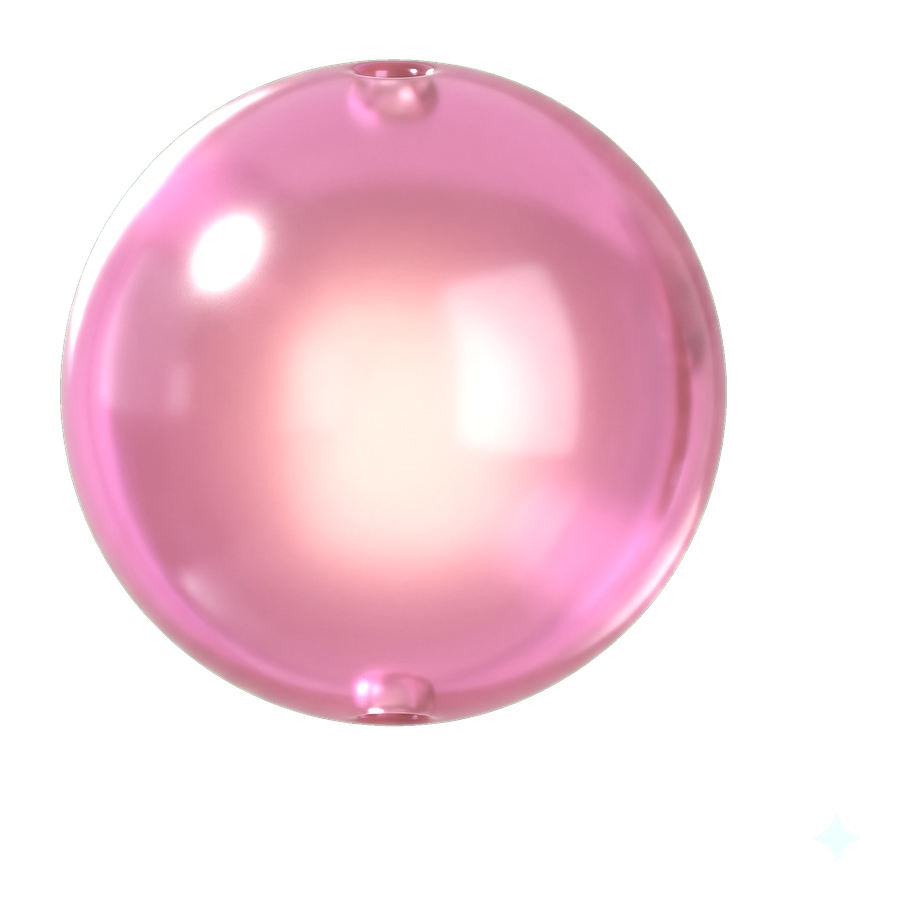
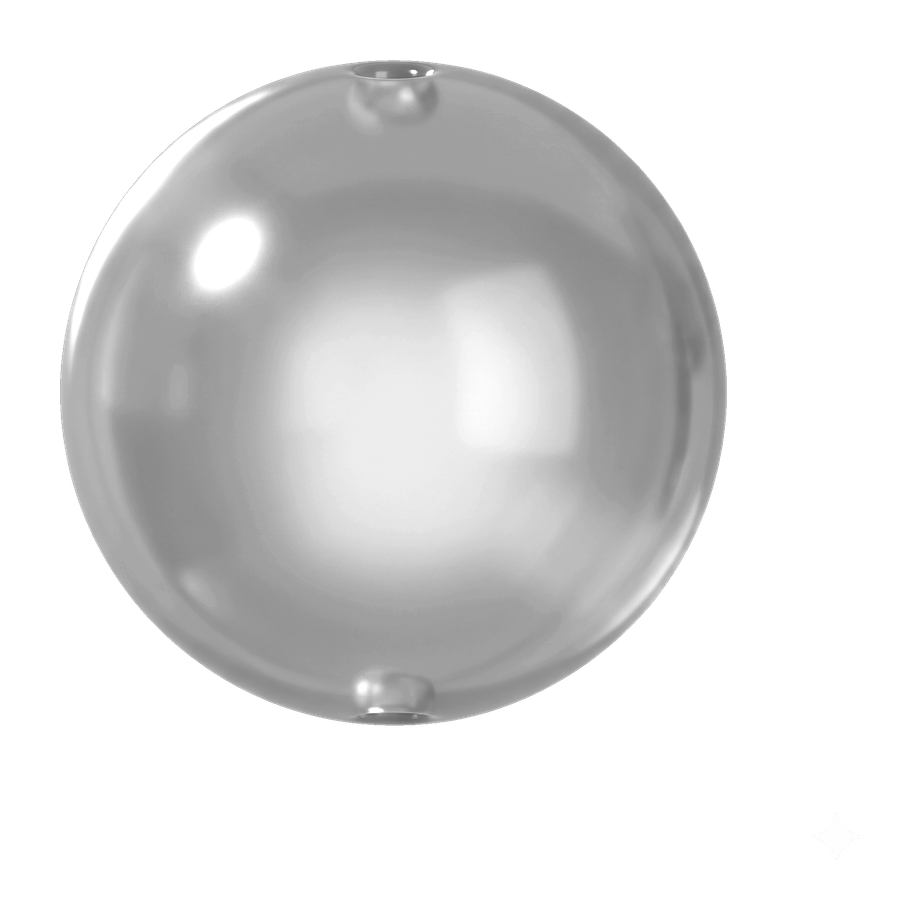
네온 염주 — 알 지름을 발바닥과 같게(651→800), 불 켜진 알은 금으로

diff --git a/src/app/moktak/page.tsx b/src/app/moktak/page.tsx
@@ -132,7 +132,7 @@ const PRACTICE_TABS: readonly PracticeTab[] = ["moktak", "yeomju", "bowl", "keyc
 /** 그림 판 번호 — 그림을 고쳐 올려도 **파일 이름이 같으면** 브라우저가
     옛 것을 그대로 쥐고 있다. 형이 「아직 진하다」고 한 게 그것이었다.
     고칠 때마다 이 수를 올리면 새 그림으로 갈린다. */
-const 그림판 = 29;
+const 그림판 = 30;
 const 그림 = (s: string) => `${s}?v=${그림판}`;
 
 const SKINS = {
@@ -918,7 +918,7 @@ export default function MoktakPage() {
                     ? 0
                     : Math.max(0, Math.min(1, (물결 - (표시에서 - 칸)) / 칸));
                 const 분홍결 = `brightness(${(1.0 + 0.06 * front).toFixed(2)})${beadHue(i)}`;
-                const 금결 = `brightness(${(1.0 + 0.07 * front).toFixed(2)})${beadHue(i)}`;
+                const 금결 = `brightness(${(1.0 + 0.07 * front).toFixed(2)})`; // 금은 알마다 같은 금 — 빛깔 돌림 없이
                 return (
                   <span
                     key={i}
